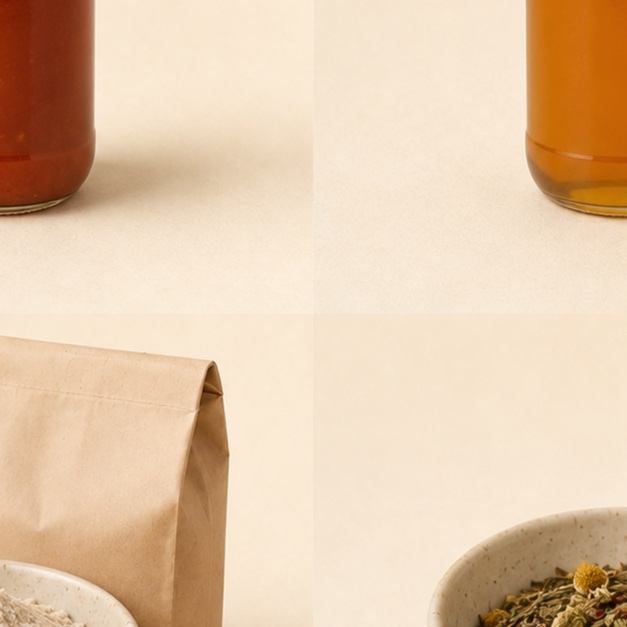
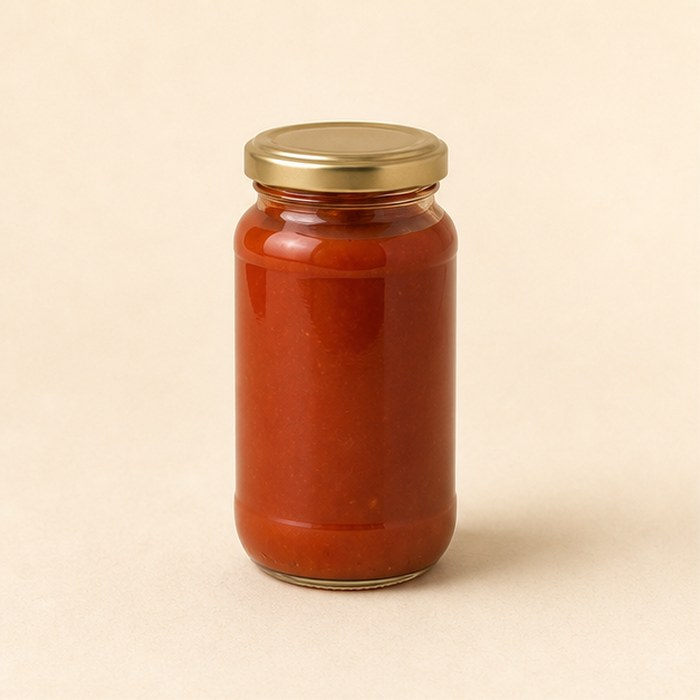
Audita y corrige la estetica de las tarjetas

diff --git a/css/estilos.css b/css/estilos.css
@@ -10,6 +10,7 @@
   --champan:#f4ead9;
   --champan-claro:#faf4e9;
   --crema-card:#fbf6ec;
+  --foto-crema:#f5e6d4;
   --oliva:#6f7a52;
   --oliva-osc:#5b6543;
   --oliva-claro:#e6e9dc;
@@ -725,7 +726,7 @@ body::before{
     border-radius:0;mix-blend-mode:normal;transform:translateY(22px);
   }
   .hero__txt{position:relative;z-index:2;width:270px;max-width:none;padding-top:28px}
-  .hero h1{max-width:10ch;font-size:40px;line-height:.86;letter-spacing:-.025em}
+  .hero h1{max-width:8ch;font-size:38px;line-height:.9;letter-spacing:-.025em;text-wrap:balance}
   .hero p{max-width:18ch;margin:14px 0 18px;font-size:18px;line-height:1.35;color:#50382b}
   .hero .btn{min-height:44px;padding:10px 17px;font-size:12px}
 
@@ -886,4 +887,29 @@ body::before{
   .pie{margin-top:0;background:#7a4423;background-image:none}
   .tabbar{padding:5px 4px calc(5px + env(safe-area-inset-bottom));background:#faf4e9;backdrop-filter:none}
   .tabbar a{min-height:46px;font-size:9px}
+}
+
+/* Auditoría visual: encuadres completos y superficies fotográficas continuas. */
+.prod__sel--fija{
+  display:flex;align-items:center;background-image:none;
+}
+.cat-card,.mix-card{background:var(--foto-crema)}
+.mix-card[aria-pressed="true"]{background:var(--foto-crema)}
+.prod__fig,.ficha__img,.mix-card__fig,.combo__fig{background:var(--foto-crema)}
+.cat-card__fig,
+.prod__fig img,
+.ficha__img img,
+.mix-card__fig img,
+.combo__fig img{
+  object-fit:contain;
+  object-position:center;
+  transform:none;
+  mix-blend-mode:normal;
+}
+.combo{background:var(--foto-crema)}
+
+@media (max-width:639px){
+  body[data-vista="catalogo"] .prod__sub{display:none}
+  body[data-vista="catalogo"] .prod__nom{min-height:2.2em;text-wrap:balance}
+  .cat-card__fig{background:var(--foto-crema)}
 }

diff --git a/index.html b/index.html
@@ -18,7 +18,7 @@
 <link rel="preconnect" href="https://fonts.googleapis.com">
 <link rel="preconnect" href="https://fonts.gstatic.com" crossorigin>
 <link href="https://fonts.googleapis.com/css2?family=Playfair+Display:wght@500;600&family=Karla:wght@400;500;600&display=swap" rel="stylesheet">
-<link rel="stylesheet" href="css/estilos.css?v=20260902e">
+<link rel="stylesheet" href="css/estilos.css?v=20260902f">
 </head>
 <body>
 
@@ -110,7 +110,7 @@
 
 <div class="toast" id="toast" role="status" aria-live="polite"></div>
 
-<script src="js/datos.js?v=20260902d"></script>
-<script src="js/app.js?v=20260902d"></script>
+<script src="js/datos.js?v=20260902f"></script>
+<script src="js/app.js?v=20260902f"></script>
 </body>
 </html>

diff --git a/js/app.js b/js/app.js
@@ -192,7 +192,7 @@ function tarjetaProducto(p) {
     (p.presentaciones.length > 1
       ? '<label class="visually-hidden" for="sel-' + p.id + '">Cantidad de ' + esc(p.nombre) + '</label>' +
         '<select class="prod__sel" id="sel-' + p.id + '" data-sel="' + p.id + '">' + opciones + '</select>'
-      : '') +
+      : '<span class="prod__sel prod__sel--fija">' + esc(presNombre(p.presentacionDefecto)) + '</span>') +
     '<div class="prod__pie">' +
       '<span class="precio" data-precio="' + p.id + '">' +
         (pr.descuento ? '<span class="precio__antes">' + money(pr.venta) + '</span>' : '') +

diff --git a/js/datos.js b/js/datos.js
@@ -11,7 +11,7 @@ const DEMO = true; // marca visible en la web mientras sean datos de prueba
 const CONFIG = {
   marca: 'La Natural',
   bajada: 'dietetica',
-  slogan: 'Lo bueno empieza en la despensa.',
+  slogan: 'Elegí lo natural.',
   slogan2: 'Productos simples para todos los días.',
 
   // --- WhatsApp (editable) ---

diff --git a/CLAUDE.md b/CLAUDE.md
@@ -4,13 +4,13 @@ Sitio estático publicado en GitHub Pages. Trabajan en paralelo Claude y Codex:
 **antes de editar, traé la versión fresca del archivo** (el otro pudo haberlo tocado).
 
 ## Marca
-- La marca real todavía no está definida. Se muestra **DIETÉTICA** como provisional.
+- La marca definida es **La Natural** y su subtítulo es **dietetica**.
 - **Nunca usar MUNA.** Era el nombre ficticio de las maquetas de referencia.
 - Todo lo del negocio (nombre, WhatsApp, dirección, horarios, textos) vive en
   `CONFIG`, dentro de `js/datos.js`. No hardcodear datos en el HTML ni en `app.js`.
 
 ## Identidad visual (viene de las maquetas en ../referencia/)
-- Russet `#7b3f1d` (header, franjas, acentos fuertes).
+- Marrón cálido `#7a4423` (header, franjas, acentos fuertes), medido en las maquetas.
 - Champán `#f4ead9` / crema `#fbf6ec` (fondos y tarjetas).
 - Oliva `#6f7a52` (botones, categorías, estados activos).
 - Títulos en Playfair Display; textos, precios y controles en Karla.
